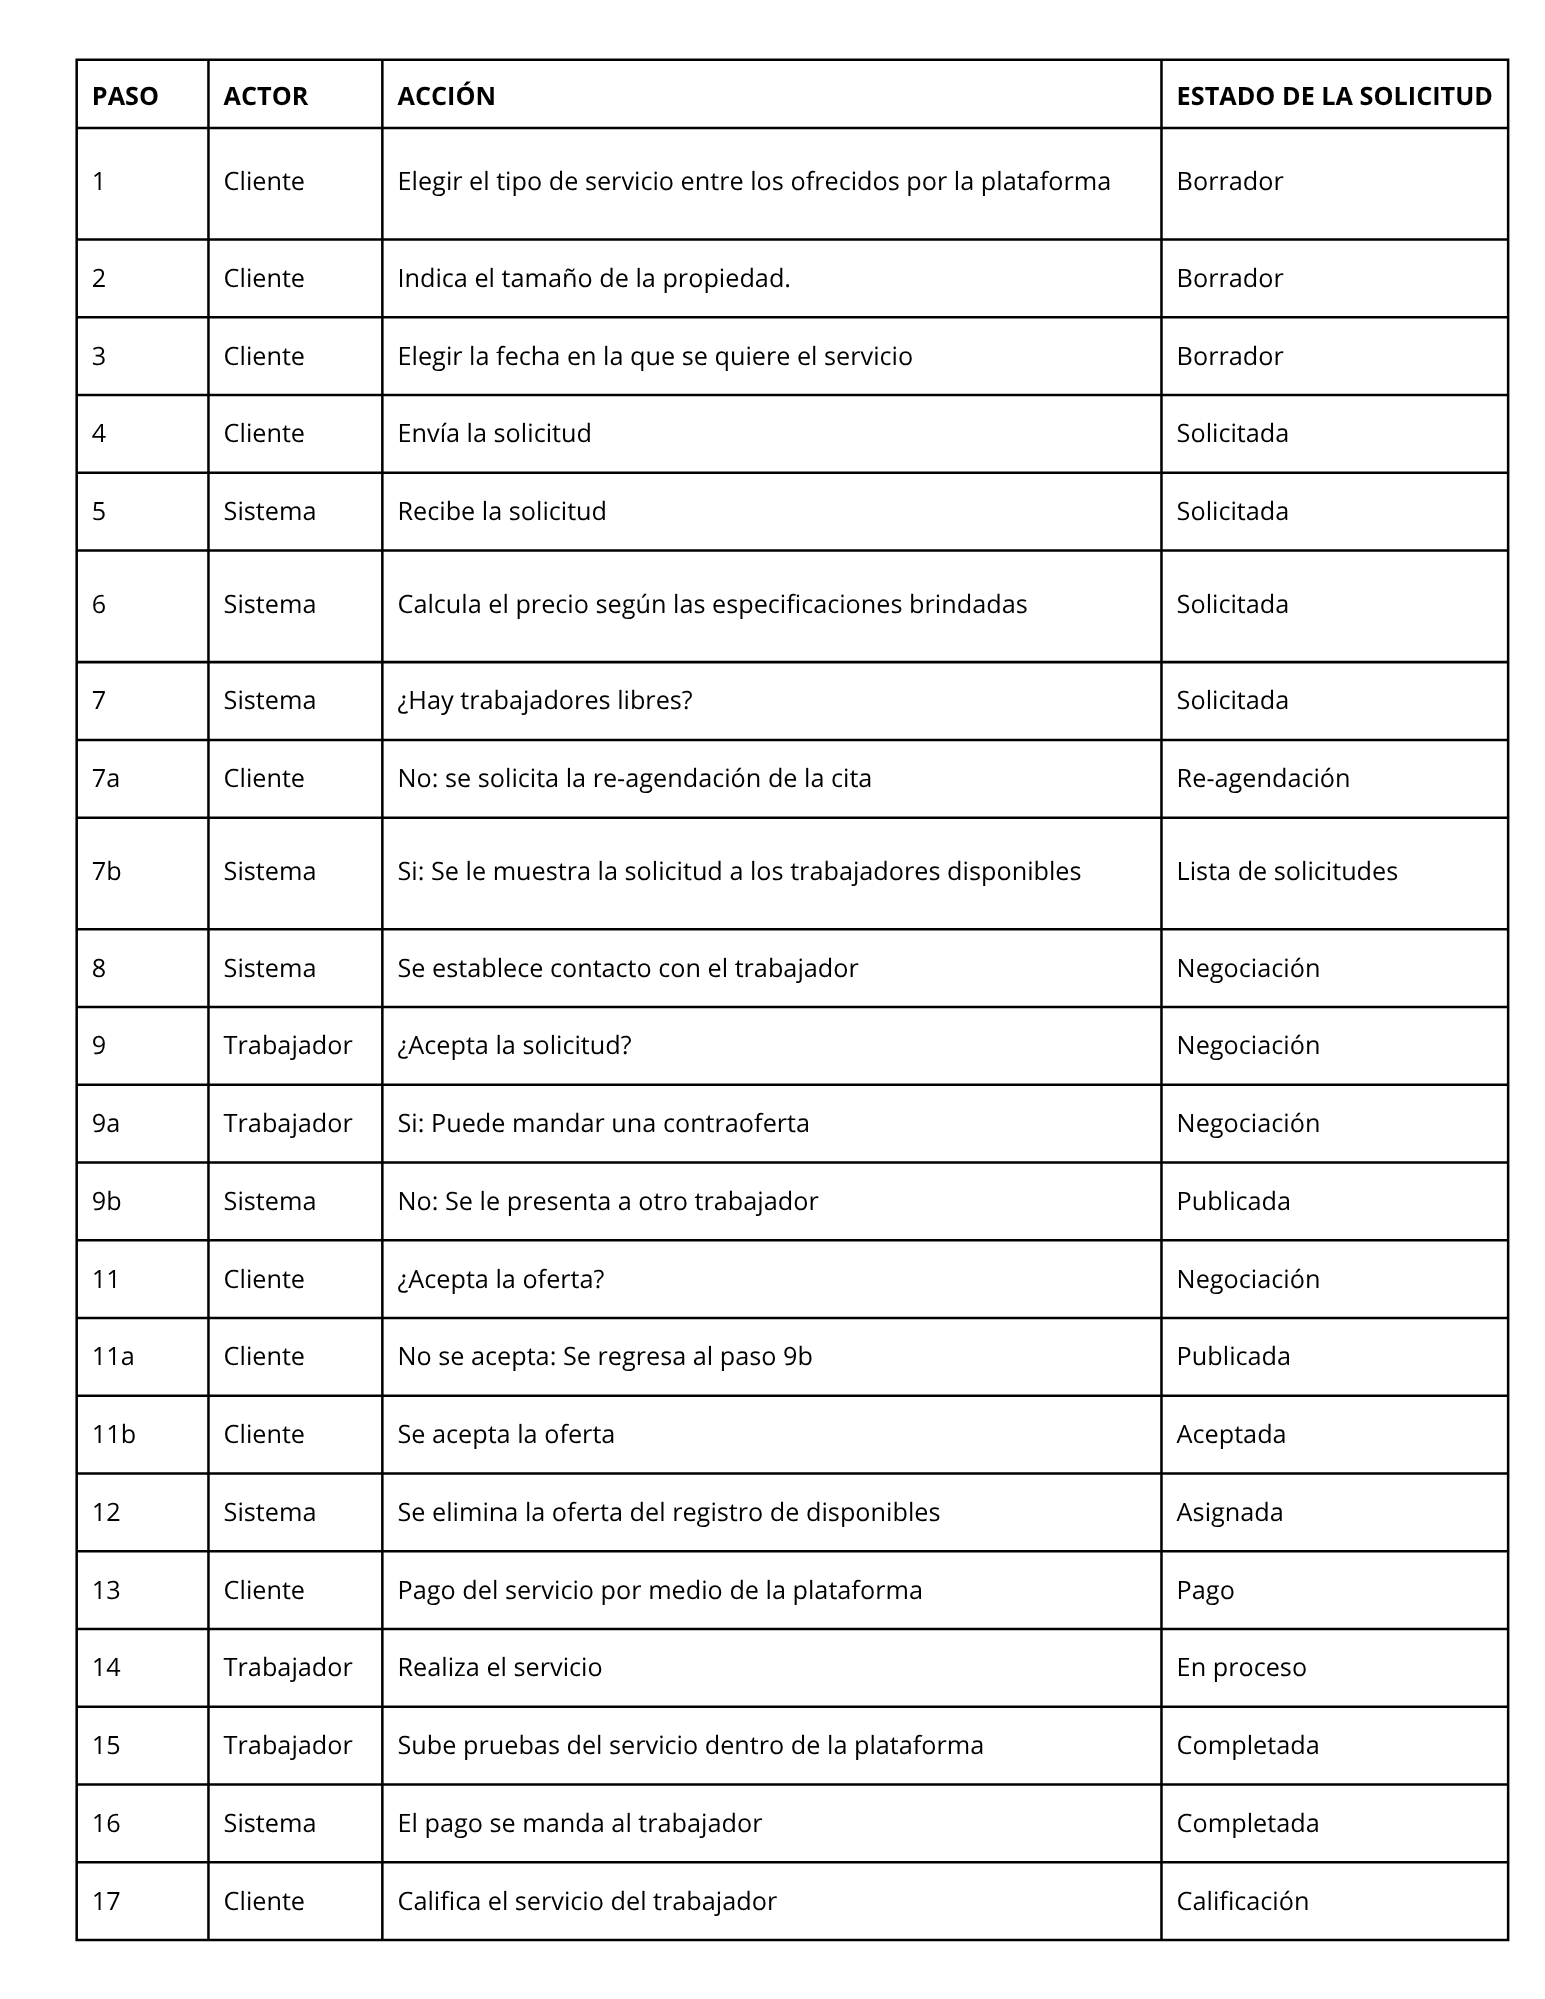
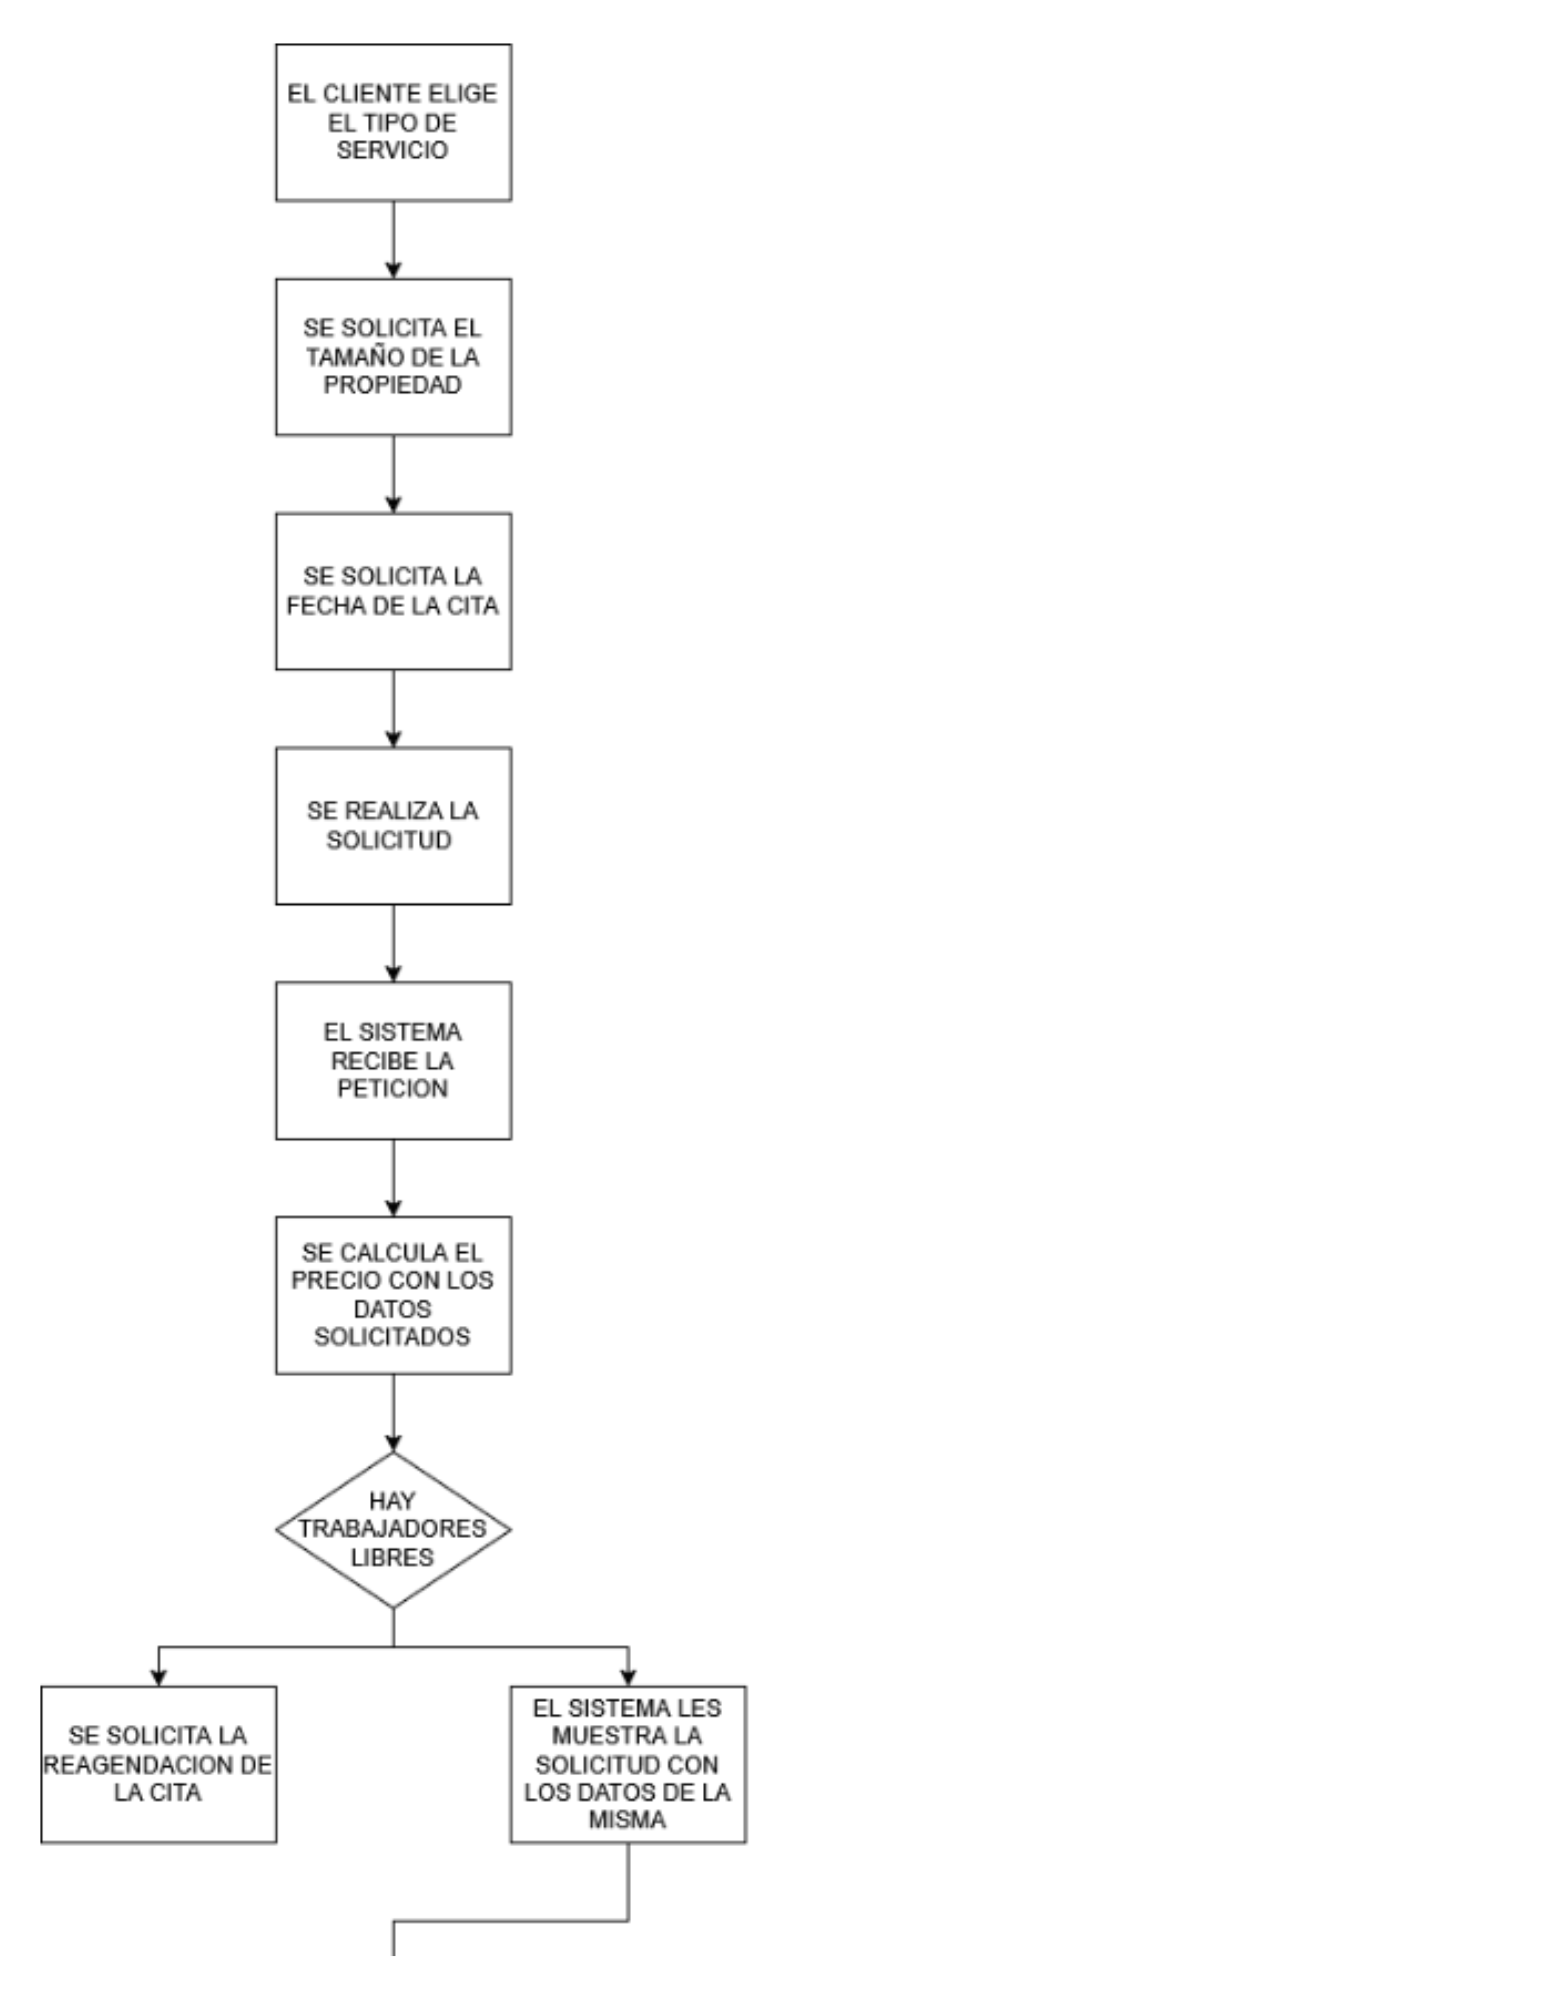
Implementación de archivo README con información sobre el proyecto

diff --git a/appWeb/docs/README.md b/appWeb/docs/README.md
@@ -1,0 +1,132 @@
+NOMBRE DEL PROYECTO: ¿QUÉ LIMPIAMOS?
+INTEGRANTES:
+MARTÍN DZIB ANGIE MELINA
+MIRANDA MANUEL ITZEL NICTE-HA
+SÁNCHEZ MENA LEONARDO
+SANTOS CHAY BRENDA NAOMY
+
+PROBLEMA
+En Cancún no existe una forma sencilla de conectar a trabajadores de servicios de limpieza con posibles clientes. La plataforma funciona como un “Uber” de limpieza en el que el cliente publica el servicio que necesita, indicando especificaciones como ubicación y detalles, los trabajadores disponibles responden la petición y acuerdan un trato de trabajo.
+
+FLUJO SELECCIONADO
+PASO	ACTOR	    ACCIÓN	                                                            ESTADO DE LA SOLICITUD
+1	    Cliente	    Elegir el tipo de servicio entre los ofrecidos por la plataforma	Borrador
+2	    Cliente	    Indica el tamaño de la propiedad.	                                Borrador
+3	    Cliente	    Elegir la fecha en la que se quiere el servicio	                    Borrador
+4	    Cliente	    Envía la solicitud	                                                Solicitada
+5	    Sistema	    Recibe la solicitud	                                                Solicitada
+6	    Sistema		Calcula el precio según las especificaciones brindadas              Solicitada
+7	    Sistema	    ¿Hay trabajadores libres?	                                        Solicitada
+7a	    Cliente	    No: se solicita la re-agendación de la cita	                        Re-agendación
+7b	    Sistema	    Si: Se le muestra la solicitud a los trabajadores disponibles	    Lista de solicitudes
+8	    Sistema	    Se establece contacto con el trabajador	                            Negociación
+9	    Trabajador	¿Acepta la solicitud?	                                            Negociación
+9a	    Trabajador	Si: Puede mandar una contraoferta	                                Negociación
+9b	    Sistema	    No: Se le presenta a otro trabajador	                            Publicada
+11	    Cliente	    ¿Acepta la oferta?	                                                Negociación
+11a	    Cliente	    No se acepta: Se regresa al paso 9b	                                Publicada
+11b	    Cliente	    Se acepta la oferta	                                                Aceptada
+12	    Sistema	    Se elimina la oferta del registro de disponibles	                Asignada
+13	    Cliente	    Pago del servicio por medio de la plataforma	                    Pago
+14	    Trabajador	Realiza el servicio	                                                En proceso
+15	    Trabajador	Sube pruebas del servicio dentro de la plataforma	                Completada
+16	    Sistema	    El pago se manda al trabajador	                                    Completada
+17	    Cliente	    Califica el servicio del trabajador	                                Calificación
+
+
+LISTA DE INTERFACES
+└── ./
+    ├── appWeb
+    │   ├── assets
+    │   │   ├── index-DdhX5A-m.js
+    │   │   └── index-x54zN-sA.css
+    │   ├── docs
+    │   │   ├── mockups(wireframes)
+    │   │   │   ├── 1.png
+    │   │   │   ├── 10.png
+    │   │   │   ├── 11.png
+    │   │   │   ├── 12.png
+    │   │   │   ├── 13.png
+    │   │   │   ├── 2.png
+    │   │   │   ├── 3.png
+    │   │   │   ├── 4.png
+    │   │   │   ├── 5.png
+    │   │   │   ├── 6.png
+    │   │   │   ├── 7.png
+    │   │   │   ├── 8.png
+    │   │   │   └── 9.png
+    │   │   ├── flujo-proceso.png
+    │   │   └── mapa_navegacion.png
+    │   ├── public
+    │   │   ├── favicon.svg
+    │   │   └── icons.svg
+    │   ├── src
+    │   │   ├── components
+    │   │   │   ├── comunes
+    │   │   │   │   ├── AparecerAlDesplazar.tsx
+    │   │   │   │   ├── AvisoTemporal.tsx
+    │   │   │   │   ├── CampoDeFormulario.tsx
+    │   │   │   │   ├── FormasOrganicas.tsx
+    │   │   │   │   ├── Icono.tsx
+    │   │   │   │   ├── Ilustraciones.tsx
+    │   │   │   │   ├── Insignias.tsx
+    │   │   │   │   ├── TarjetaDeIndicador.tsx
+    │   │   │   │   └── VentanasModales.tsx
+    │   │   │   ├── solicitudes
+    │   │   │   │   ├── BarraDeFiltrosDeSolicitudes.tsx
+    │   │   │   │   ├── DetalleDeSolicitud.tsx
+    │   │   │   │   ├── EvidenciasDelLugar.tsx
+    │   │   │   │   ├── ListaDeSolicitudes.tsx
+    │   │   │   │   └── MapaDeUbicacion.tsx
+    │   │   │   ├── BarraDeNavegacion.tsx
+    │   │   │   ├── MenuLateral.tsx
+    │   │   │   └── PiePagina.tsx
+    │   │   ├── data
+    │   │   │   ├── CatalogoContext.tsx
+    │   │   │   ├── catalogoDemo.ts
+    │   │   │   ├── configuracion.ts
+    │   │   │   ├── ReportesContext.tsx
+    │   │   │   ├── reportesDemo.ts
+    │   │   │   ├── seccionesDeDemostracion.ts
+    │   │   │   ├── SolicitudesContext.tsx
+    │   │   │   ├── solicitudesDemo.ts
+    │   │   │   ├── tipos.ts
+    │   │   │   ├── trabajadores.ts
+    │   │   │   └── TrabajadoresContext.tsx
+    │   │   ├── hooks
+    │   │   │   ├── useAhora.ts
+    │   │   │   └── useAtrapaFoco.ts
+    │   │   ├── pages
+    │   │   │   ├── CatalogoPage.tsx
+    │   │   │   ├── DashboardPage.tsx
+    │   │   │   ├── InicioPage.tsx
+    │   │   │   ├── LandingPage.tsx
+    │   │   │   ├── LoginPage.tsx
+    │   │   │   ├── PerfilPage.tsx
+    │   │   │   ├── ReportesPage.tsx
+    │   │   │   ├── SeccionDeDatosPage.tsx
+    │   │   │   ├── SolicitudesPage.tsx
+    │   │   │   └── TrabajadoresPage.tsx
+    │   │   ├── utils
+    │   │   │   ├── archivos.ts
+    │   │   │   ├── consultasDeSolicitudes.ts
+    │   │   │   ├── fechas.ts
+    │   │   │   ├── formato.ts
+    │   │   │   ├── reglasDeSolicitudes.ts
+    │   │   │   └── sesion.ts
+    │   │   ├── App.css
+    │   │   ├── App.tsx
+    │   │   ├── index.css
+    │   │   └── main.tsx
+    │   ├── package.json
+    │   └── vite.config.ts
+    └── README.md
+
+INSTRUCCIONES DE INSTALACIÓN
+git clone URL
+cd Que-Limpiamos
+cd appWeb
+npm install
+npm run dev
+cd ..
+
